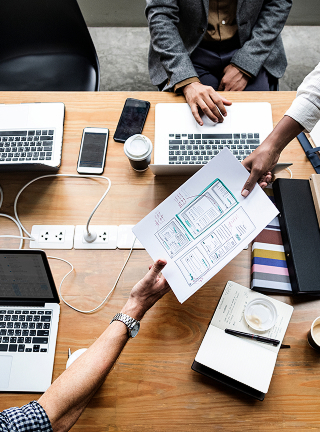
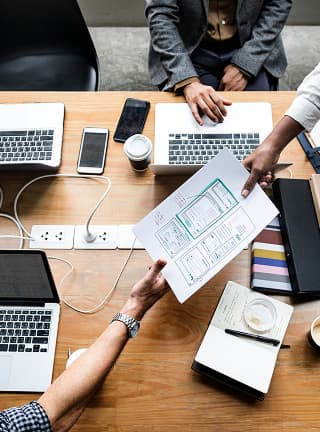
adapt

diff --git a/index.html b/index.html
@@ -70,7 +70,7 @@
     </header>
     <main>
       <!--Hero section -->
-      <section class="hero " id="hero">
+      <section class="hero" id="hero">
         <div class="container">
           <h1 class="hero-title">Effective Solutions for Your Business</h1>
           <button class="order-btn" type="button">Order Service</button>
@@ -78,7 +78,7 @@
       </section>
 
       <!-- Features section-->
-      <section class="features " id="features">
+      <section class="features" id="features">
         <div class="container">
           <h2 class="sr-only">Our Features</h2>
           <ul class="features-list">
@@ -135,13 +135,14 @@
       </section>
 
       <!--Team section-->
-      <section class="team section " id="team">
+      <section class="team section" id="team">
         <div class="container">
           <h2 class="team-title section-title">Our Team</h2>
           <ul class="team-list">
             <li class="team-item">
               <img
                 class="team-ill"
+                srcset="./images/team-1.jpg 1x, ./images/team-1@2x.jpg 2x"
                 src="./images/team-1.jpg"
                 alt="Mark Guerrero"
                 width="264"
@@ -203,6 +204,7 @@
             <li class="team-item">
               <img
                 class="team-ill"
+                srcset="./images/team-2.jpg 1x, ./images/team-2@2x.jpg 2x"
                 src="./images/team-2.jpg"
                 alt="Tom Ford"
                 width="264"
@@ -264,6 +266,7 @@
             <li class="team-item">
               <img
                 class="team-ill"
+                srcset="./images/team-3.jpg 1x, ./images/team-3@2x.jpg 2x"
                 src="./images/team-3.jpg"
                 alt="Camila Garcia"
                 width="264"
@@ -325,6 +328,7 @@
             <li class="team-item">
               <img
                 class="team-ill"
+                srcset="./images/team-4.jpg 1x, ./images/team-4@2x.jpg 2x"
                 src="./images/team-4.jpg"
                 alt="Daniel Wilson"
                 width="264"
@@ -387,7 +391,7 @@
       </section>
 
       <!--Portfolio section-->
-      <section class="portfolio section " id="portfolio">
+      <section class="portfolio section" id="portfolio">
         <div class="container">
           <h2 class="portfolio-title section">Our Portfolio</h2>
           <ul class="portfolio-list">
@@ -395,6 +399,10 @@
               <div class="portfolio-thumb">
                 <img
                   class="portfolio-pic"
+                  srcset="
+                    ./images/portfolio-1.jpg    1x,
+                    ./images/portfolio-1@2x.jpg 2x
+                  "
                   src="./images/portfolio-1.jpg"
                   alt="Banking App"
                   width="360"
@@ -415,6 +423,10 @@
               <div class="portfolio-thumb">
                 <img
                   class="portfolio-pic"
+                  srcset="
+                    ./images/portfolio-2.jpg    1x,
+                    ./images/portfolio-2@2x.jpg 2x
+                  "
                   src="./images/portfolio-2.jpg"
                   alt="Cashless Payment"
                   width="360"
@@ -435,6 +447,10 @@
               <div class="portfolio-thumb">
                 <img
                   class="portfolio-pic"
+                  srcset="
+                    ./images/portfolio-3.jpg    1x,
+                    ./images/portfolio-3@2x.jpg 2x
+                  "
                   src="./images/portfolio-3.jpg"
                   alt="Meditation App"
                   width="360"
@@ -455,6 +471,10 @@
               <div class="portfolio-thumb">
                 <img
                   class="portfolio-pic"
+                  srcset="
+                    ./images/portfolio-4.jpg    1x,
+                    ./images/portfolio-4@2x.jpg 2x
+                  "
                   src="./images/portfolio-4.jpg"
                   alt="Taxi Service"
                   width="360"
@@ -475,6 +495,10 @@
               <div class="portfolio-thumb">
                 <img
                   class="portfolio-pic"
+                  srcset="
+                    ./images/portfolio-5.jpg    1x,
+                    ./images/portfolio-5@2x.jpg 2x
+                  "
                   src="./images/portfolio-5.jpg"
                   alt="Screen Illustrations"
                   width="360"
@@ -495,6 +519,10 @@
               <div class="portfolio-thumb">
                 <img
                   class="portfolio-pic"
+                  srcset="
+                    ./images/portfolio-6.jpg    1x,
+                    ./images/portfolio-6@2x.jpg 2x
+                  "
                   src="./images/portfolio-6.jpg"
                   alt="Online Courses"
                   width="360"
@@ -517,7 +545,7 @@
     </main>
 
     <!-- section footer-->
-    <footer class="footer " id="footer hide">
+    <footer class="footer" id="footer">
       <div class="container footer-container">
         <div class="footer-left">
           <a class="contacts-link" href="./index.html"
@@ -598,7 +626,7 @@
         </form>
       </div>
     </footer>
-    <Mobile menu>
+    <!--Mobile menu-->
     <div class="mobile-menu">
       <div class="mobile-menu-container">
         <button class="mobile-menu-btn">
@@ -607,85 +635,88 @@
           </svg>
         </button>
         <ul class="mobile-menu-list">
-          <li class="mobile-menu-item"><a  class="mobile-menu-link activ" href="#">Features</a></li>
-          <li class="mobile-menu-item"><a class="mobile-menu-link" href="#" >Team</a></li>
-          <li class="mobile-menu-item"><a  class="mobile-menu-link" href="#">Portfolio</a></li>
+          <li class="mobile-menu-item">
+            <a class="mobile-menu-link activ" href="#">Features</a>
+          </li>
+          <li class="mobile-menu-item">
+            <a class="mobile-menu-link" href="#">Team</a>
+          </li>
+          <li class="mobile-menu-item">
+            <a class="mobile-menu-link" href="#">Portfolio</a>
+          </li>
         </ul>
         <div class="bottom">
-          
           <address class="mobile-menu-address">
             <ul>
               <li>
                 <a class="mobile-menu-address-phone" href="tel:+110001111111"
                   >+11 (000) 111-11-11</a
-                
                 >
               </li>
               <li>
-                <a class="mobile-menu-address-email" href="mailto:info@devstudio.com"
+                <a
+                  class="mobile-menu-address-email"
+                  href="mailto:info@devstudio.com"
                   >info@devstudio.com</a
-                
                 >
               </li>
             </ul>
           </address>
           <ul class="team-social">
-                    <li class="social">
-                      <a
-                        class="social-link"
-                        href=" https://instagram.com"
-                        target="_blank"
-                      >
-                        <svg class="social-icon-svg" width="16" height="16">
-                          <use href="./images/icons.svg#instagram"></use>
-                        </svg>
-                      </a>
-                    </li>
-                    <li class="social">
-                      <a
-                        class="social-link"
-                        href="https://twitter.com"
-                        target="_blank"
-                      >
-                        <svg class="social-icon-svg" width="16" height="16">
-                          <use href="./images/icons.svg#twitter"></use>
-                        </svg>
-                      </a>
-                    </li>
-                    <li class="social">
-                      <a
-                        class="social-link"
-                        href="https://facebook.com"
-                        target="_blank"
-                      >
-                        <svg class="social-icon-svg" width="16" height="16">
-                          <use href="./images/icons.svg#facebook"></use>
-                        </svg>
-                      </a>
-                    </li>
-                    <li class="social">
-                      <a
-                        class="social-link"
-                         href="https://linkedin.com"
-                        target="_blank"
-                      >
-                        <svg class="social-icon-svg" width="16" height="16">
-                          <use href="./images/icons.svg#linkedin"></use>
-                        </svg>
-                      </a>
-                    </li>
-                  </ul>
+            <li class="social">
+              <a
+                class="social-link"
+                href=" https://instagram.com"
+                target="_blank"
+              >
+                <svg class="social-icon-svg" width="16" height="16">
+                  <use href="./images/icons.svg#instagram"></use>
+                </svg>
+              </a>
+            </li>
+            <li class="social">
+              <a class="social-link" href="https://twitter.com" target="_blank">
+                <svg class="social-icon-svg" width="16" height="16">
+                  <use href="./images/icons.svg#twitter"></use>
+                </svg>
+              </a>
+            </li>
+            <li class="social">
+              <a
+                class="social-link"
+                href="https://facebook.com"
+                target="_blank"
+              >
+                <svg class="social-icon-svg" width="16" height="16">
+                  <use href="./images/icons.svg#facebook"></use>
+                </svg>
+              </a>
+            </li>
+            <li class="social">
+              <a
+                class="social-link"
+                href="https://linkedin.com"
+                target="_blank"
+              >
+                <svg class="social-icon-svg" width="16" height="16">
+                  <use href="./images/icons.svg#linkedin"></use>
+                </svg>
+              </a>
+            </li>
+          </ul>
         </div>
-
-        
       </div>
     </div>
-    <Modal window>
-  
-      <div class="modal-container" id="modal">
-        <div class="backdrop ">
-          <div class="modal" >
-          <button class="modal-btn" type="button" aria-label="Close modal button">
+    <!--Modal window-->
+
+    <div class="modal-container" id="modal">
+      <div class="backdrop">
+        <div class="modal">
+          <button
+            class="modal-btn"
+            type="button"
+            aria-label="Close modal button"
+          >
             <svg class="modal-btn-icon" width="8" height="8">
               <use href="./images/icons.svg#close"></use>
             </svg>
@@ -774,7 +805,7 @@
             <button class="btn btn-filled" type="submit">Send</button>
           </form>
         </div>
-            </div>
       </div>
+    </div>
   </body>
 </html>

diff --git a/css/hero.css b/css/hero.css
@@ -9,15 +9,25 @@
   background-color: #2e2f42;
   background-image:
     linear-gradient(rgba(46, 47, 66, 0.7), rgba(46, 47, 66, 0.7) 100%),
-    url('../images/hero/hero-bg.jpg');
+    image-set("../images/hero/hero-bg_mob.jpg" 1x, "../images/hero/hero-bg_mob@2x.jpg" 2x);
+  
   background-repeat: no-repeat;
   background-position: center;
   background-size: cover;
 }
+ @media only screen and (min-width: 768px) {
+   .hero {
+     background-image:
+    linear-gradient(rgba(46, 47, 66, 0.7), rgba(46, 47, 66, 0.7) 100%),
+    image-set("../images/hero/hero-bg_tab.jpg" 1x, "../images/hero/hero-bg_tab@2x.jpg" 2x);
+  
 
-@media only screen and (min-width: 768px) and (max-width: 1157.97) {
+   }
+ }
+@media  (min-width: 768px) and (max-width: 1157.97) {
   .hero {
     padding: 112px 0;
+    
   }
 }
 
@@ -25,6 +35,10 @@
   .hero {
     padding: 188px 0;
     max-width: 1440px;
+    background-image:
+    linear-gradient(rgba(46, 47, 66, 0.7), rgba(46, 47, 66, 0.7) 100%),
+    image-set("../images/hero/hero-bg_desk.jpg" 1x, "../images/hero/hero-bg_desk@2x.jpg" 2x);
+  
   }
 }
 

diff --git a/css/common.css b/css/common.css
@@ -12,16 +12,14 @@ body {
   max-width: 320px;
   padding: 0 16px;
   margin: 0 auto;
-
-
 }
-@media screen and (min-width:768px) {
+@media screen and (min-width: 768px) {
   .container {
     max-width: 768px;
     padding: 0 16px;
   }
 }
-@media screen and (min-width:1158px) {
+@media screen and (min-width: 1158px) {
   .container {
     max-width: 1158px;
     padding: 0 15px;
@@ -55,6 +53,8 @@ address {
 }
 img {
   display: block;
+  max-width: 100%;
+  height: auto;
 }
 
 /*Base styles*/
@@ -88,8 +88,6 @@ img {
   text-align: center;
   color: #2e2f42;
 }
-
-
 
 .logo {
   display: inline-flex;
